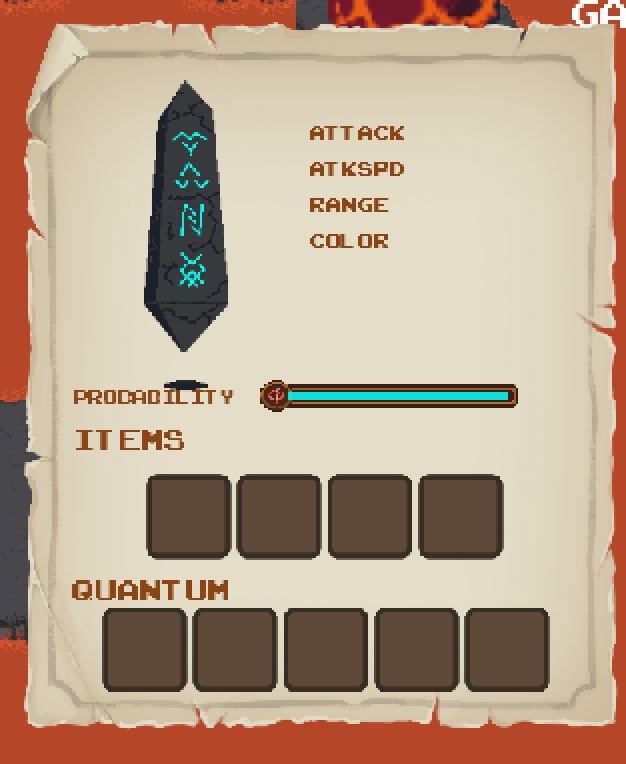
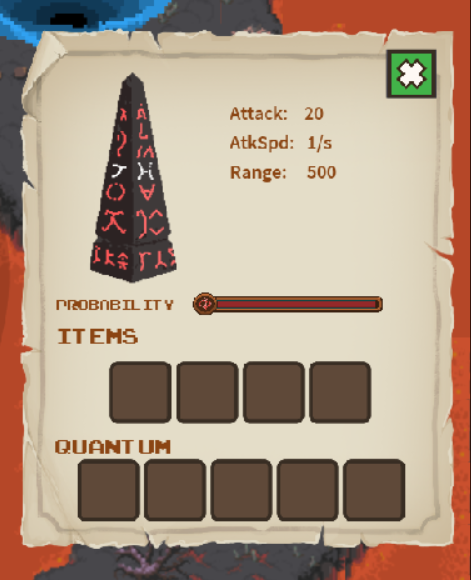
Updated user guide

diff --git a/docs/milestone-3/user-guide.md b/docs/milestone-3/user-guide.md
@@ -28,7 +28,7 @@ and vice versa.
 Towers cannot be built in these paths. This is indicated when trying to build a tower when hovering over a path.
 - Base: Red and blue planets (More obvious markers for dimensions tbc) with health bar in the top of the screen.
 
-![Health Bar](./assets/HealthBar.png)
+![Health Bar](./assets/health-bar.png)
 As shown above, the red bar indicates the health of the red portal and vice versa.
 If the portal's start at different health, the health of the portal with higher health will completely fill the bar.
 The health of the portal with lower health will be relative to that. If any portal's health reaches zero, the game is over.
@@ -55,32 +55,62 @@ in subsequent updates.
 
 ### Build
 
-![Building Towers](./assets/arena-build.png)
+![Building Towers](./assets/arena.png)
 
-- Select build mode by hitting '+'
-- Colour selector allows user to switch between creating red or blue towers
-- Click on your chosen tower and then place it on the map. (Using the green / red tile selector as a guide for valid placements)
-- Tower is only built on valid tiles, and will begin attacking the available enemies of its colours
+- To build towers, simply click on the tower of choice in the UI below as shown here.
+
+![Tower buttons](./assets/tower-to-be-released.png)
+- Alternatively, you can press the numbers 1 to 6 for each corresponding tower slot, starting from the left.
+
+- After chosing a tower, a temporary tower will follow the user's mouse to show how the tower will be displayed
+when build. This temporary tower will be red with a red range indicator if the chosen tower is red and vice versa.
+
+![Red tower building](./assets/red-building.png)  ![Blue tower building](./assets/blue-building.png)
+
+- If the tower hovers over a path, the temporary tower will turn black and a cancel symbol will appear. This 
+indicates that the tower cannot be built.
+
+![Cancel tower](./assets/no-building.png)
 
 ### Inspect
 
 ![Inspecting Towers](./assets/tower-inspector.png)
 
-- Select inspect mode by hitting 'i'
 - Choose towers to see a graphical visualisation of the current attributes of this tower
-- At this point, quantum towers can be added in to change the probability of enemy states after hit. (Default is always 100% red or blue to indicate no change to enemy)
+- Items held by the towers are also displayed in the tower inventory. This is classified into normal items and quantum items. Quantum item can only be dropped into quantum item slots and vice versa. For this release, only quantum items are implemented. 
+- To close the tower inspector, simply press the X at the top of the tower inspector or click on the same tower again. If another tower is clicked while the tower inspector is opened, the new tower's information will be displayed by the tower inspector instead.
+- The tower inspector has a probability bar right below the tower attributes. This gives a visual representation 
+of the probabilties the enemies can turn into when shot.
 
 **H Gate**
 
 ![Impact of gate](./assets/h-gate.png)
 
+- The H gate is a quantum gate that puts a classical bit in superposition. This is collapse straight away and results in a 50 percent chance of a qubit collapsing into either a 0 or a 1. Likewise, this gives a 50 percent probability of converting an enemie's color (qubit) into red(0) or blue(1), which is visually represented in the probability
+bar as shown below.
+
+- This is demostrated with IBM Quantum Experience's circuit builder tool shown below.
+![H circuit](./assets/hadamard.png)
+![H stats](./assets/hadamard-stats.png)
+
 **RY Gate**
 
 ![Impact of gate](./assets/ry-gate.png)
+- Similar to the H gate, the Ry gate is a quantum gate that takes in an input angle. For the sake of the game, 
+we set this angle to pi/4. This gives us the approximate probabiltiy of 87.5 percent.
+
+![Ry circuit](./assets/ry.png)
+![Ry stats](./assets/ry-stats.png)
+
 
 **X Gate**
 
 ![Impact of gate](./assets/x-gate.png)
+- Unlike the previous two quantum gate, the X gate is a classical gate that completely changes the current bit. Gameplaywise, this has a 100 percent chance of converting a color to another color and is thus also the strongest gate. This gate's drop rate will also be the lowest.
+
+![X circuit](./x.png)
+![X stats](x-stats.png)
+
 
 ### Tutorial Level (Not ready)
 
